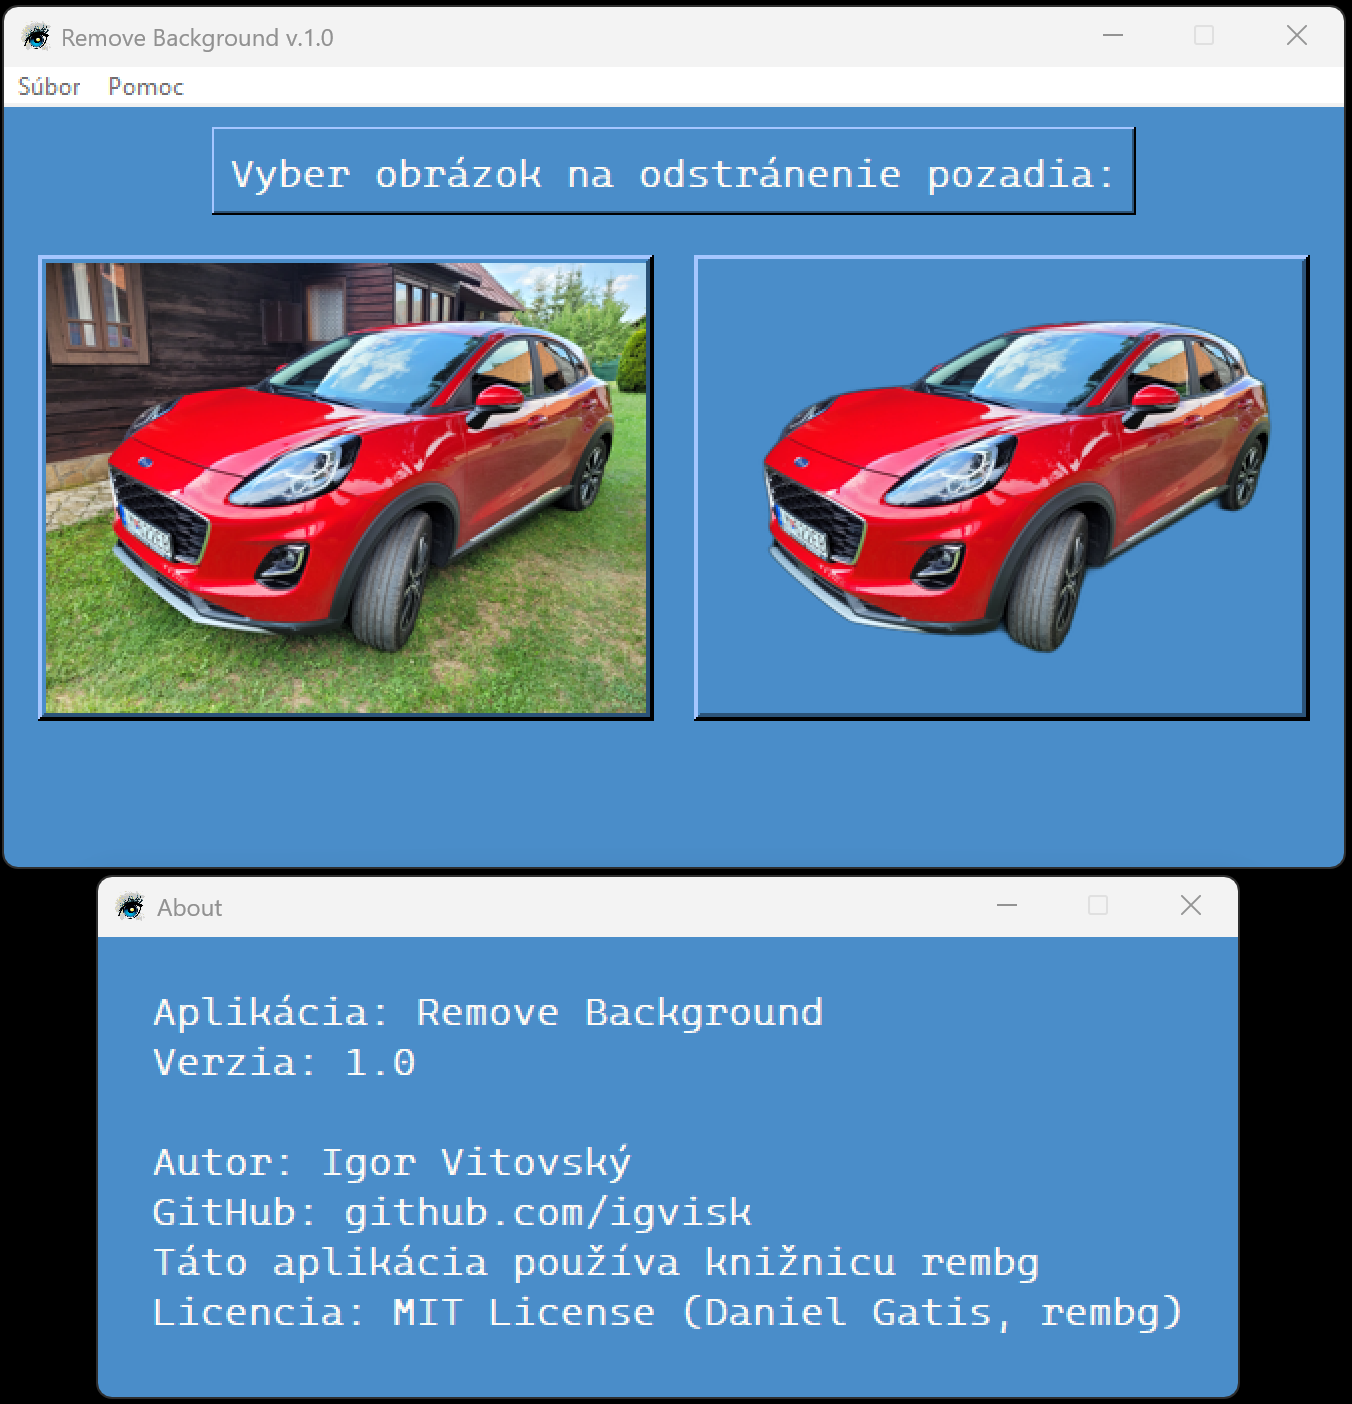
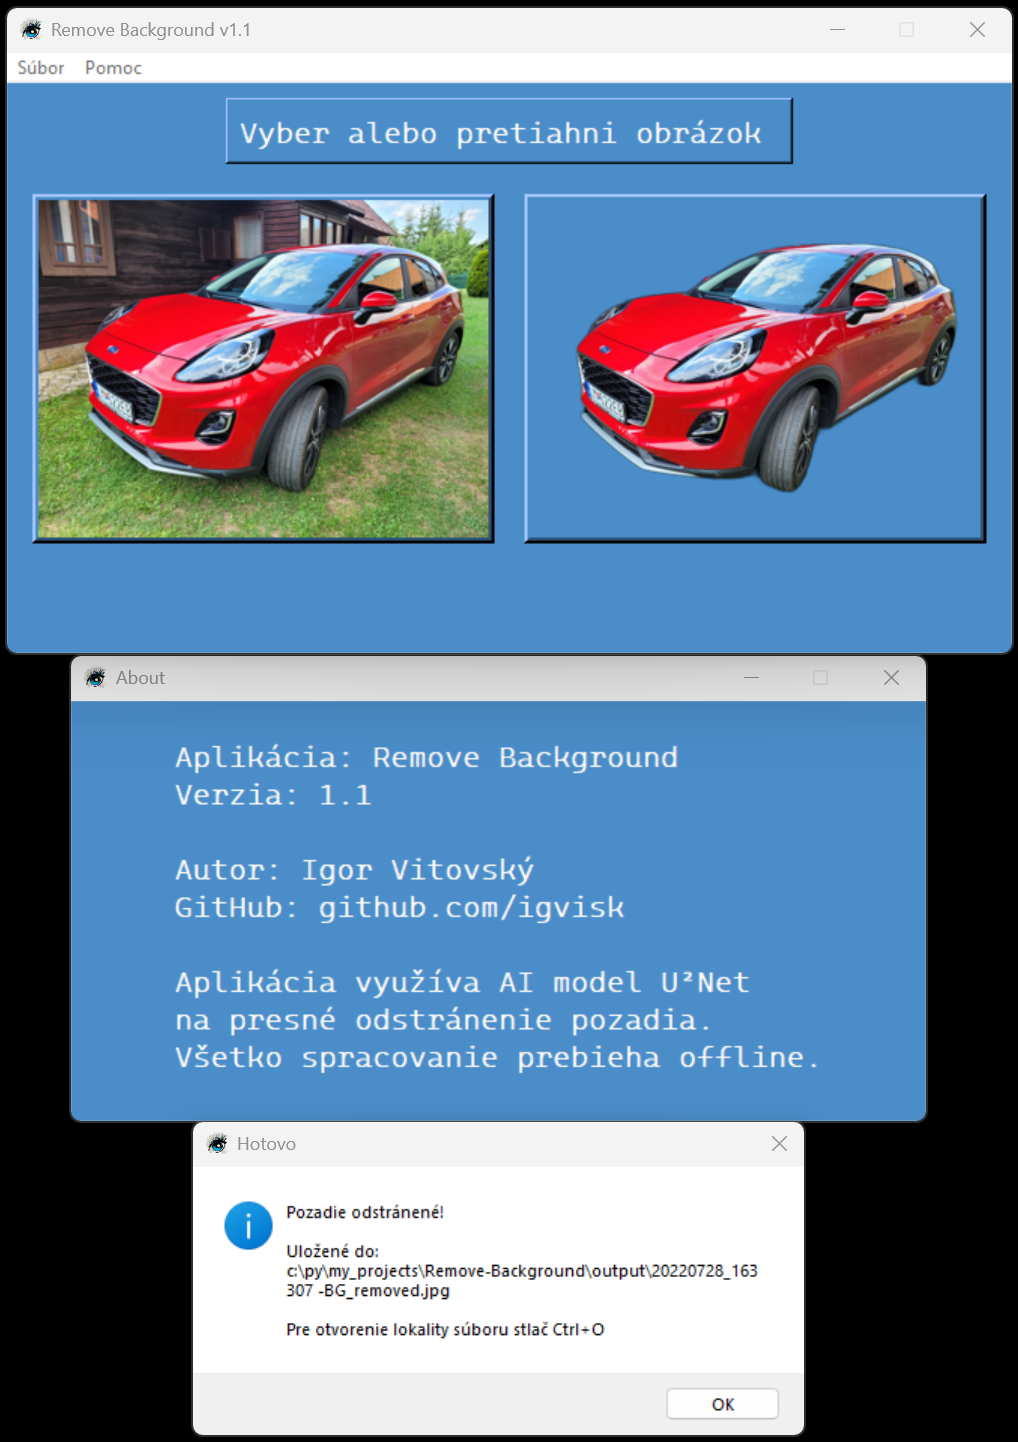
Remove Background v1.1 released

diff --git a/Remove_Background.py b/Remove_Background.py
@@ -26,7 +26,7 @@ class BackgroundRemoveApp(TkinterDnD.Tk):                   #TkinterDnD - drag&d
     def __init__(self):
         super().__init__()
         #GUI
-        self.title(f"Remove Background v.{VERSION}")
+        self.title(f"Remove Background v{VERSION}")
         self.resizable(False, False)
         self.set_window_geometry(670, 400)
 
@@ -111,7 +111,7 @@ class BackgroundRemoveApp(TkinterDnD.Tk):                   #TkinterDnD - drag&d
         about_window.configure(bg=color_background)
 
         # vycentrovanie about okna
-        self.set_window_geometry(570, 230, about_window)
+        self.set_window_geometry(570, 280, about_window)
 
         # Nastavenie ikony aj pre About okno
         icon_path = os.path.join(self.script_dir, "Remove-Background.ico")
@@ -119,12 +119,13 @@ class BackgroundRemoveApp(TkinterDnD.Tk):                   #TkinterDnD - drag&d
             about_window.iconbitmap(icon_path)   # Windows (.ico)
 
         text = (
-            "Aplikácia: Remove Background\n"
-            f"Verzia: {VERSION}\n\n"
-            "Autor: Igor Vitovský\n"
-            "GitHub: github.com/igvisk\n"
-            "Táto aplikácia používa knižnicu rembg\n"
-            "Licencia: MIT License (Daniel Gatis, rembg)"
+                "Aplikácia: Remove Background\n"
+                f"Verzia: {VERSION}\n\n"
+                "Autor: Igor Vitovský\n"
+                "GitHub: github.com/igvisk\n\n"
+                "Aplikácia využíva AI model U²Net\n"
+                "na presné odstránenie pozadia.\n"
+                "Všetko spracovanie prebieha offline."
         )
 
         about_label = Label(about_window, text=text, font= fonts, justify="left", bg= color_background, fg= color_foreground)

diff --git a/README.md b/README.md
@@ -3,7 +3,7 @@
 # Remove Background App
 
 A simple desktop application (Tkinter GUI) for removing image backgrounds using the [rembg](https://github.com/danielgatis/rembg) library and the **U²Net ONNX model**.  
-The app provides a preview of the original and processed image, and saves the output locally.
+The app provides a preview of the original and processed image, supports drag & drop, and saves the output locally.
 
 ---
 
@@ -24,6 +24,7 @@ https://github.com/igvisk/Remove-Background/releases
 ## ✨ Features
 - Background removal powered by **rembg** and **onnxruntime** (CPU/GPU with CUDA if available).
 - GUI built with **Tkinter**.
+- **Drag & Drop support** — simply drop an image file into the app window.
 - Image preview before and after processing.
 - Offline support: the ONNX model (`u2net.onnx`) is cached locally and can be bundled with the app.
 - Keyboard shortcuts:
@@ -32,6 +33,38 @@ https://github.com/igvisk/Remove-Background/releases
   - **Ctrl+Q** → Quit app
   - **F1** → About window
 - Hover effect on buttons for better user experience.
+
+---
+## 🤖 AI Model
+
+This application uses a deep learning model (**U²Net**) to perform background removal.  
+U²Net is a convolutional neural network trained for image segmentation, capable of detecting the main subject in a photo with high accuracy.
+
+- The model runs locally on your device using **ONNX Runtime**.
+- No data is sent anywhere — processing is fully offline.
+- The default model (`u2net.onnx`) provides high‑quality results.
+- A lightweight alternative (`u2netp.onnx`) can be used for faster startup and lower memory usage.
+
+### Why U²Net?
+- High‑quality segmentation (excellent for people, animals, objects)
+- Handles fine details such as hair and edges
+- Works fully offline
+- Stable and widely used in production tools
+
+### Default model used by this app
+The application uses the **full U²Net model (`u2net.onnx`)** by default:
+- Size: ~176 MB  
+- Best accuracy  
+- Higher RAM usage (approx. 250–350 MB depending on system)
+
+### Alternative models (optional)
+Rembg also supports several other models:
+- **U²Netp (`u2netp.onnx`)** – lightweight 4 MB version (faster, lower RAM, slightly lower quality)
+- **U²Net‑Human** – optimized for human portraits
+- **U²Net‑Cloth** – optimized for clothing segmentation
+- **ISNet models** – newer, smaller models for general or anime‑style images
+
+The app can be easily configured to use a different model by replacing the ONNX file in the `models/` folder.
 
 ---
 
@@ -64,7 +97,7 @@ For GPU acceleration, install onnxruntime-gpu.
 python Remove_Background.py
 
 Steps:
-- Click "Select image to remove background".
+- Click "Vyber alebo pretiahni obrázok".
 - Preview the original image.
 - The processed image (background removed) will be shown and saved into the output/ folder.
 - Use Ctrl+O to open the output folder.
